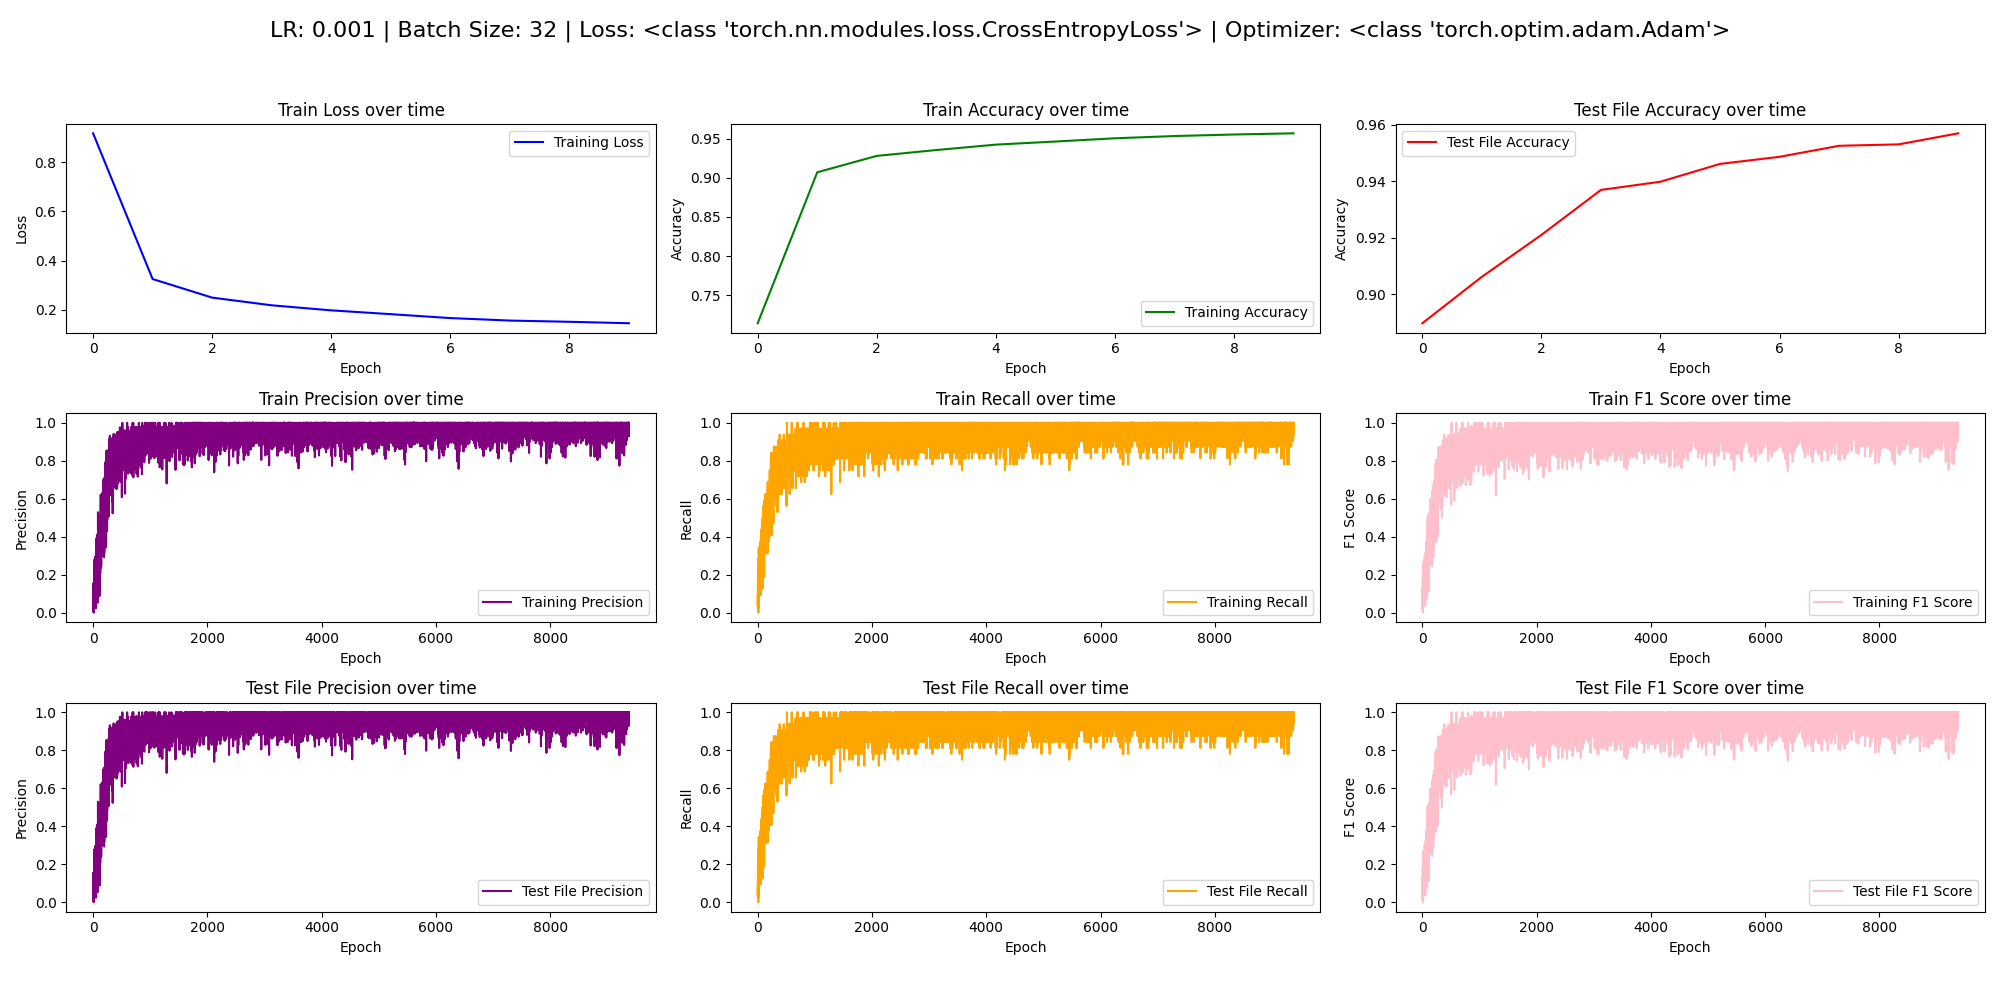
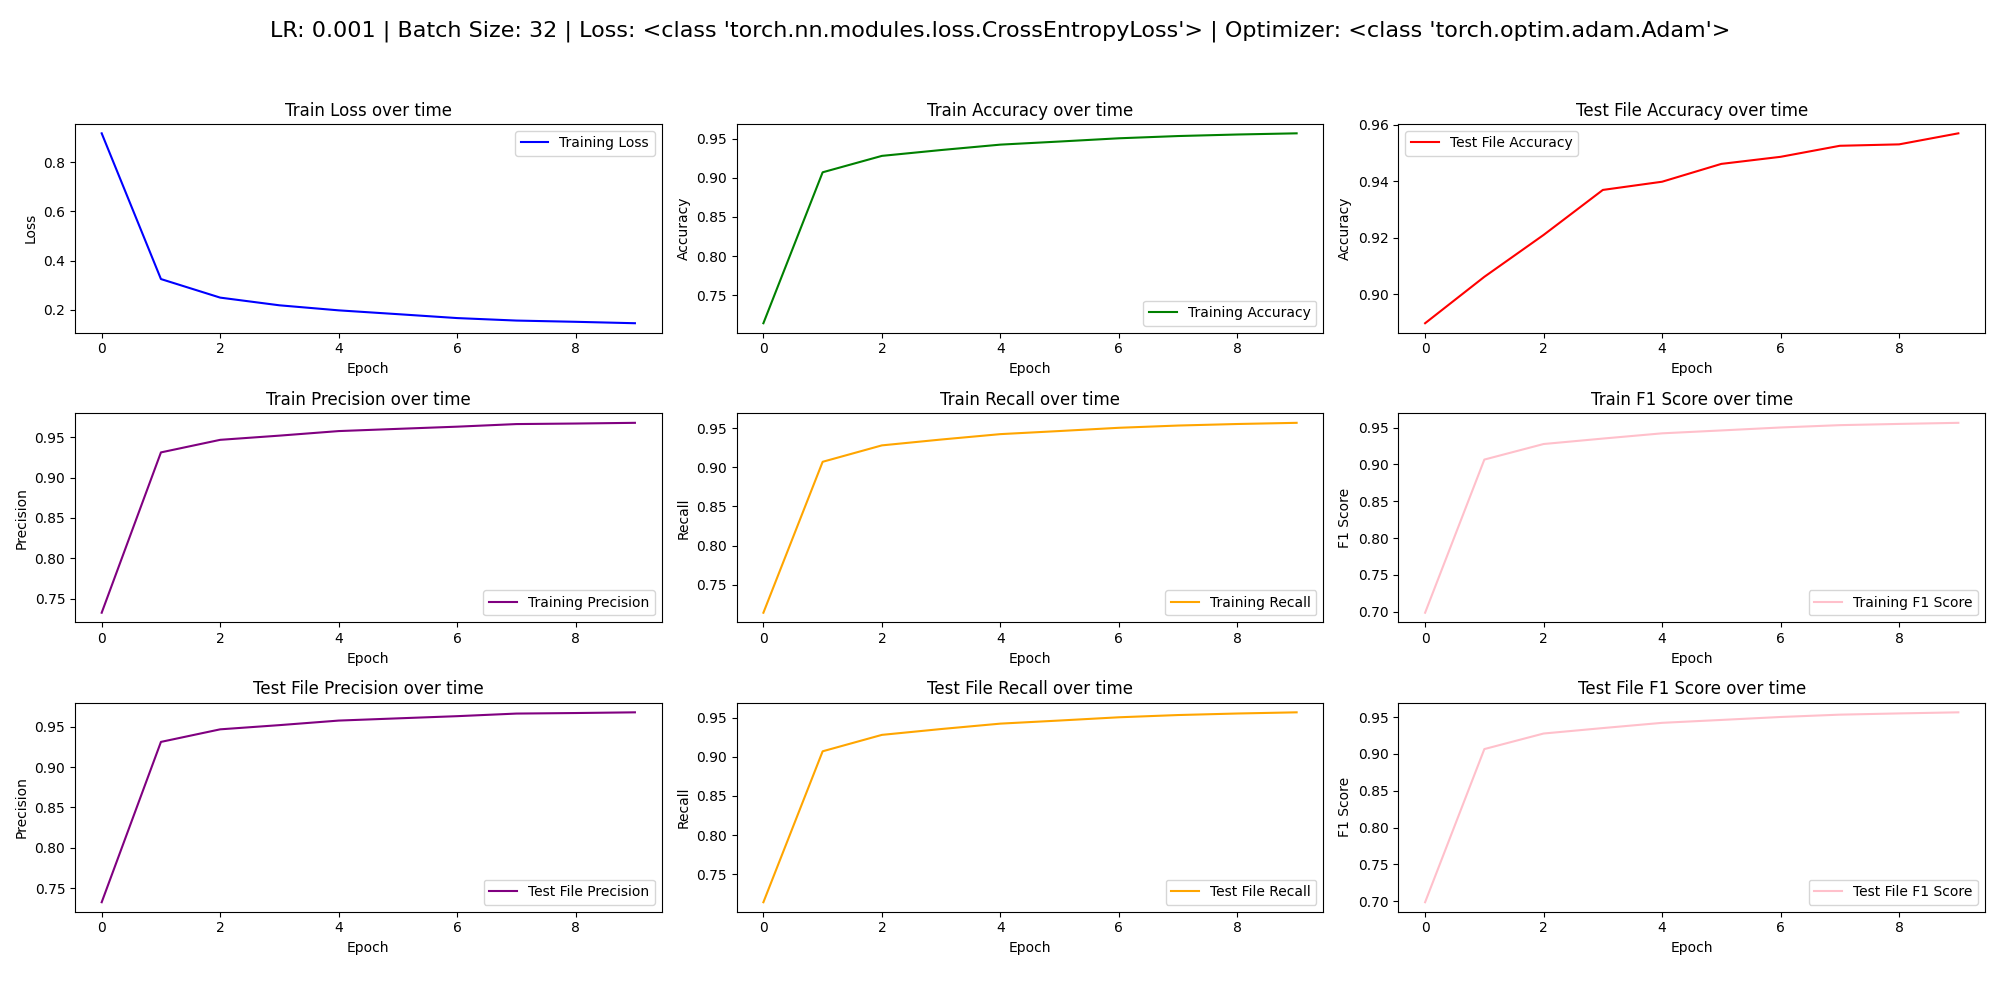
epoch graphs

diff --git a/code/stage_3_code/Method_CNN.py b/code/stage_3_code/Method_CNN.py
@@ -133,6 +133,9 @@ class Method_CNN(method, nn.Module):
         for epoch in range(self.max_epoch):
             epoch_loss = 0
             epoch_acc = 0
+            epoch_precision = 0
+            epoch_recall = 0
+            epoch_f1s = 0
             num_batches = np.ceil(X.shape[0] / self.batch_size)
 
             for batch_index in range(0, X.shape[0], self.batch_size):
@@ -152,20 +155,28 @@ class Method_CNN(method, nn.Module):
                 train_loss.backward()
                 optimizer.step()
                 epoch_loss += train_loss.item()
+
                 with torch.no_grad():
                     self.metrics_evaluator.data = {'true_y': y_true, 'pred_y': y_pred.max(1)[1]}
                     curr_accuracy, precision, recall, f1 = self.metrics_evaluator.evaluate()
                     epoch_acc += curr_accuracy
-                    self.train_precisions.append(precision)
-                    self.train_recalls.append(recall)
-                    self.train_f1s.append(f1)
+                    epoch_precision += precision
+                    epoch_recall += recall
+                    epoch_f1s += f1
+
 
             epoch_loss /= num_batches
             epoch_acc /= num_batches
+            epoch_precision /= num_batches
+            epoch_recall /= num_batches
+            epoch_f1s /= num_batches
 
             # Record loss for curr epoch/iteration
             self.train_losses.append(epoch_loss)
             self.train_accuracies.append(epoch_acc)
+            self.train_precisions.append(epoch_precision)
+            self.train_recalls.append(epoch_recall)
+            self.train_f1s.append(epoch_f1s)
 
             # Record test file accuracy
             if test_data:
